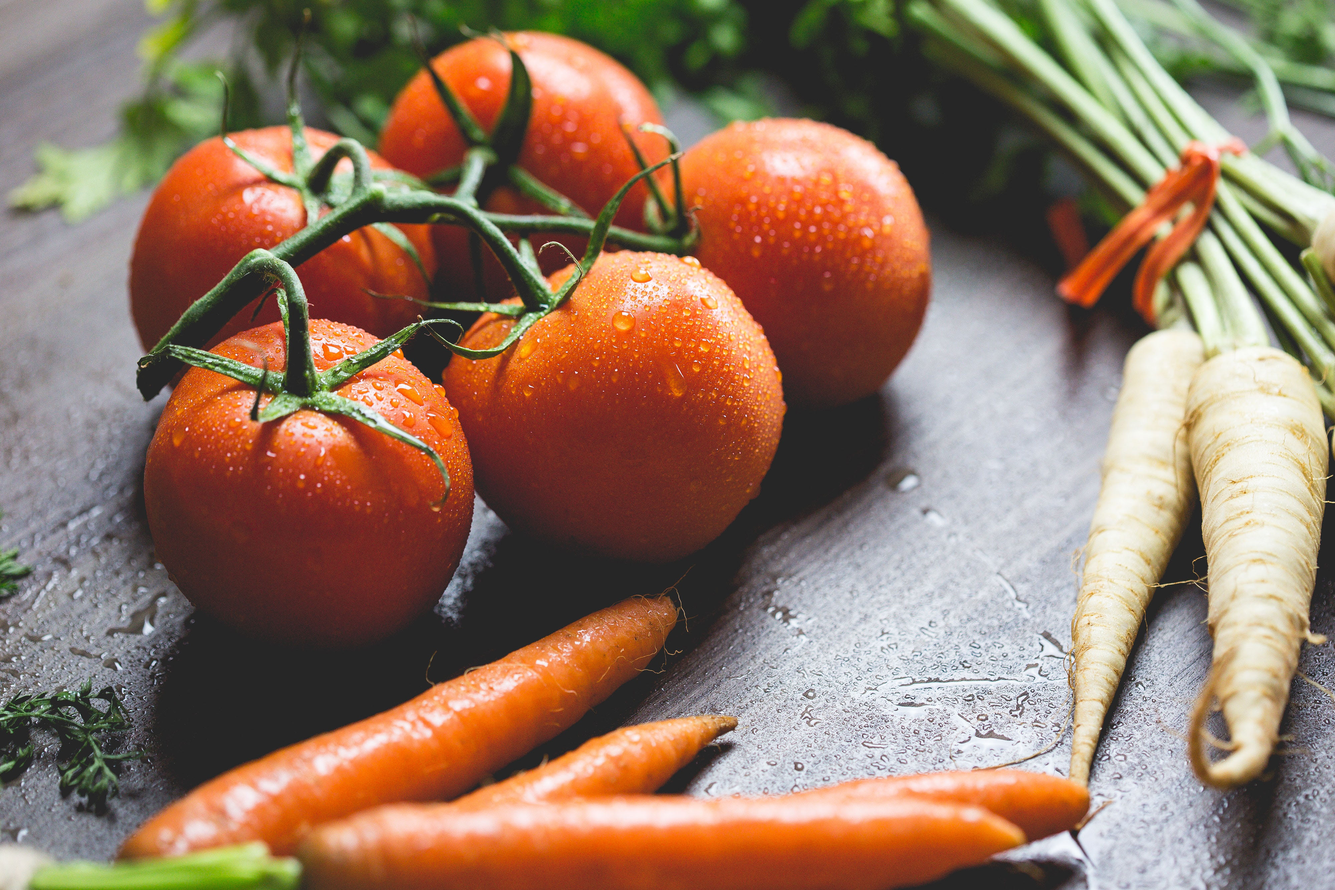
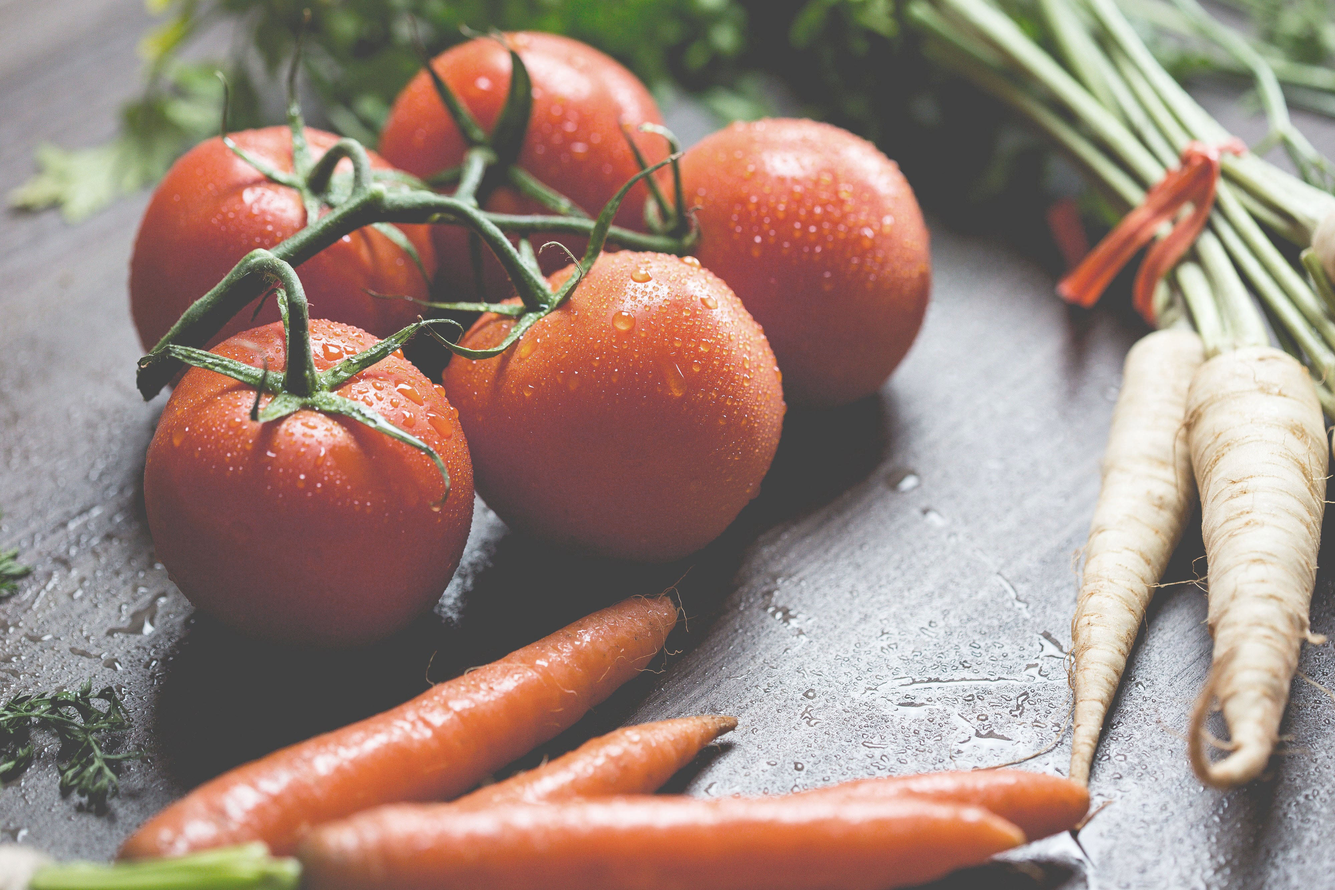
Reduced images file size and re-adjust colour balance on some of the images

diff --git a/index.html b/index.html
@@ -210,16 +210,16 @@
                     <h1>Private Chef</h1>
                     <p>
                     Private chef hire is ideal if you want to make the most of your time with your guests. 
-                    Chef Dicson caters for groups of up to 50, providing a personal chef service for private dinner party catering, hen dos, holiday lets, family and business gatherings or just a relaxing evening with friends.
-                    We bring the restaurant to you, providing delicious menu’s in the comfort of your own home or holiday let.
+                    I caters for groups of up to 25, providing a personal chef service for private dinner party catering, hen dos, holiday lets, family and business gatherings or just a relaxing evening with friends.
+                    I bring the restaurant experience to you, providing delicious menu’s in the comfort of your own home or holiday let.
                     </p>
                     <a role="button" class="collapsed d-md-none" data-toggle="collapse" href="#collapse=private-chef" aria-expanded="false" aria-controls="collapseExample">Read More</a>
                     <div class="collapse d-sm-block" id="collapse=private-chef" aria-expanded="false">
-                        <p>We are professional, reliable and flexible service. Choose your favourite menu from us and taste interesting flavours from around the world. Know that everything is freshly prepared by a professional chef.
+                        <p>I offers professional, reliable and flexible service. Choose your favourite menu from me and taste interesting flavours from around the world. Know that everything is freshly prepared by a professional chef.
                         Add your own special requests, children’s options or dietary requirements. Forget the hassle – everything is cooked, served and cleared away for you.
                         </p>
                         <p>
-                        Chef Dicson will takes care of everything, from purchasing quality ingredients sourced locally, preparing the meal in your kitchen and then tidying up the kitchen before leaving. 
+                        I will takes care of everything, from purchasing quality ingredients sourced locally, preparing the meal in your kitchen and then tidying up the kitchen before leaving. 
                         <strong>It lets you fully enjoy the company of your guests, whether the meal takes place with family, friends or business relations.</strong>
                         </p>
                     </div>
